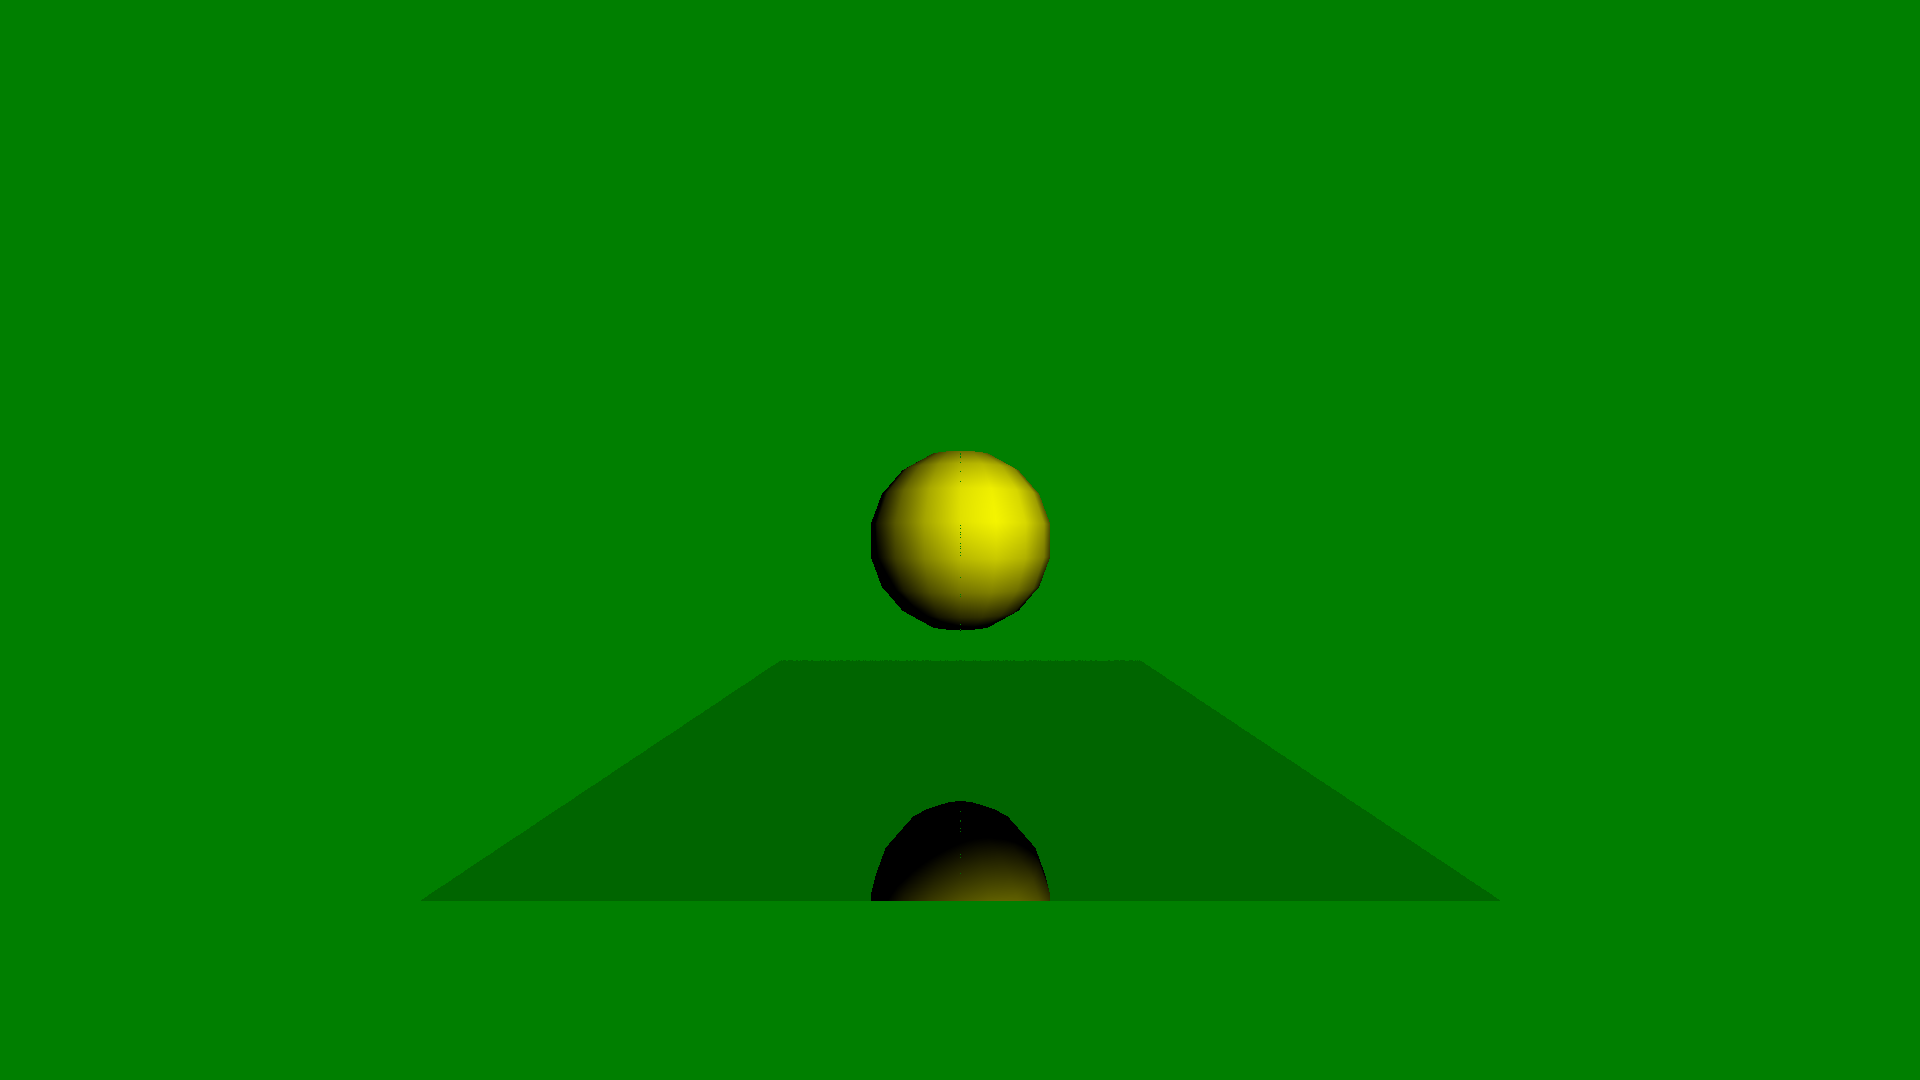
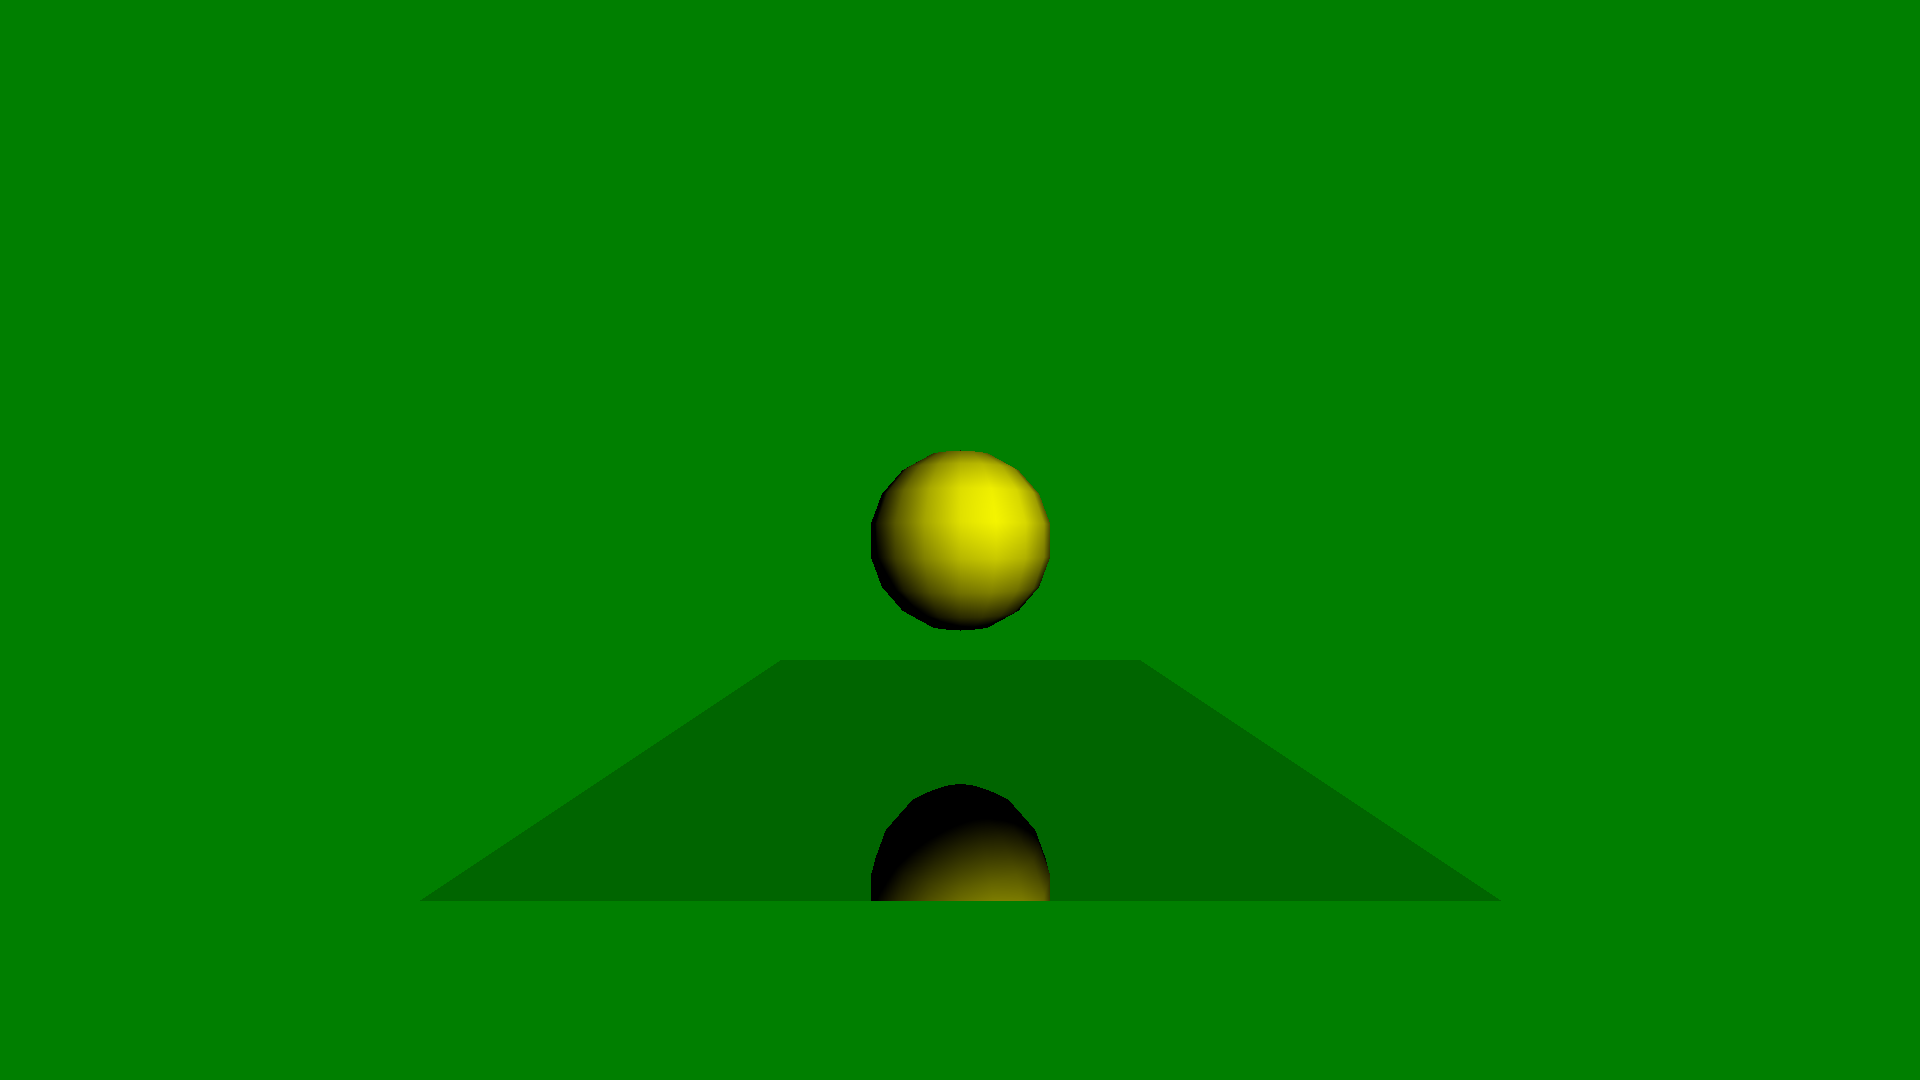
Fixes gaps between triangles bug

Changed region(s): [[0.4375, 0.7333, 0.5625, 0.8556]]

diff --git a/SourceCode/Utils/CRTTriangle.cpp b/SourceCode/Utils/CRTTriangle.cpp
@@ -74,7 +74,7 @@ bool CRTTriangle::pointInTriangle(const CRTVector& point) const {
 
 	// all the cross products need to be oriented the same way as the normal vector
 
-	return  dot(normal, relativeE0) >= 0 && dot(normal, relativeE1) >= 0 && dot(normal, relativeE2) >= 0;
+	return  dot(normal, relativeE0) >= -EPSILON && dot(normal, relativeE1) >= -EPSILON && dot(normal, relativeE2) >= -EPSILON;
 }
 
 std::pair<bool, CRTVector> CRTTriangle::intersectsRay(const CRTRay& ray) const
